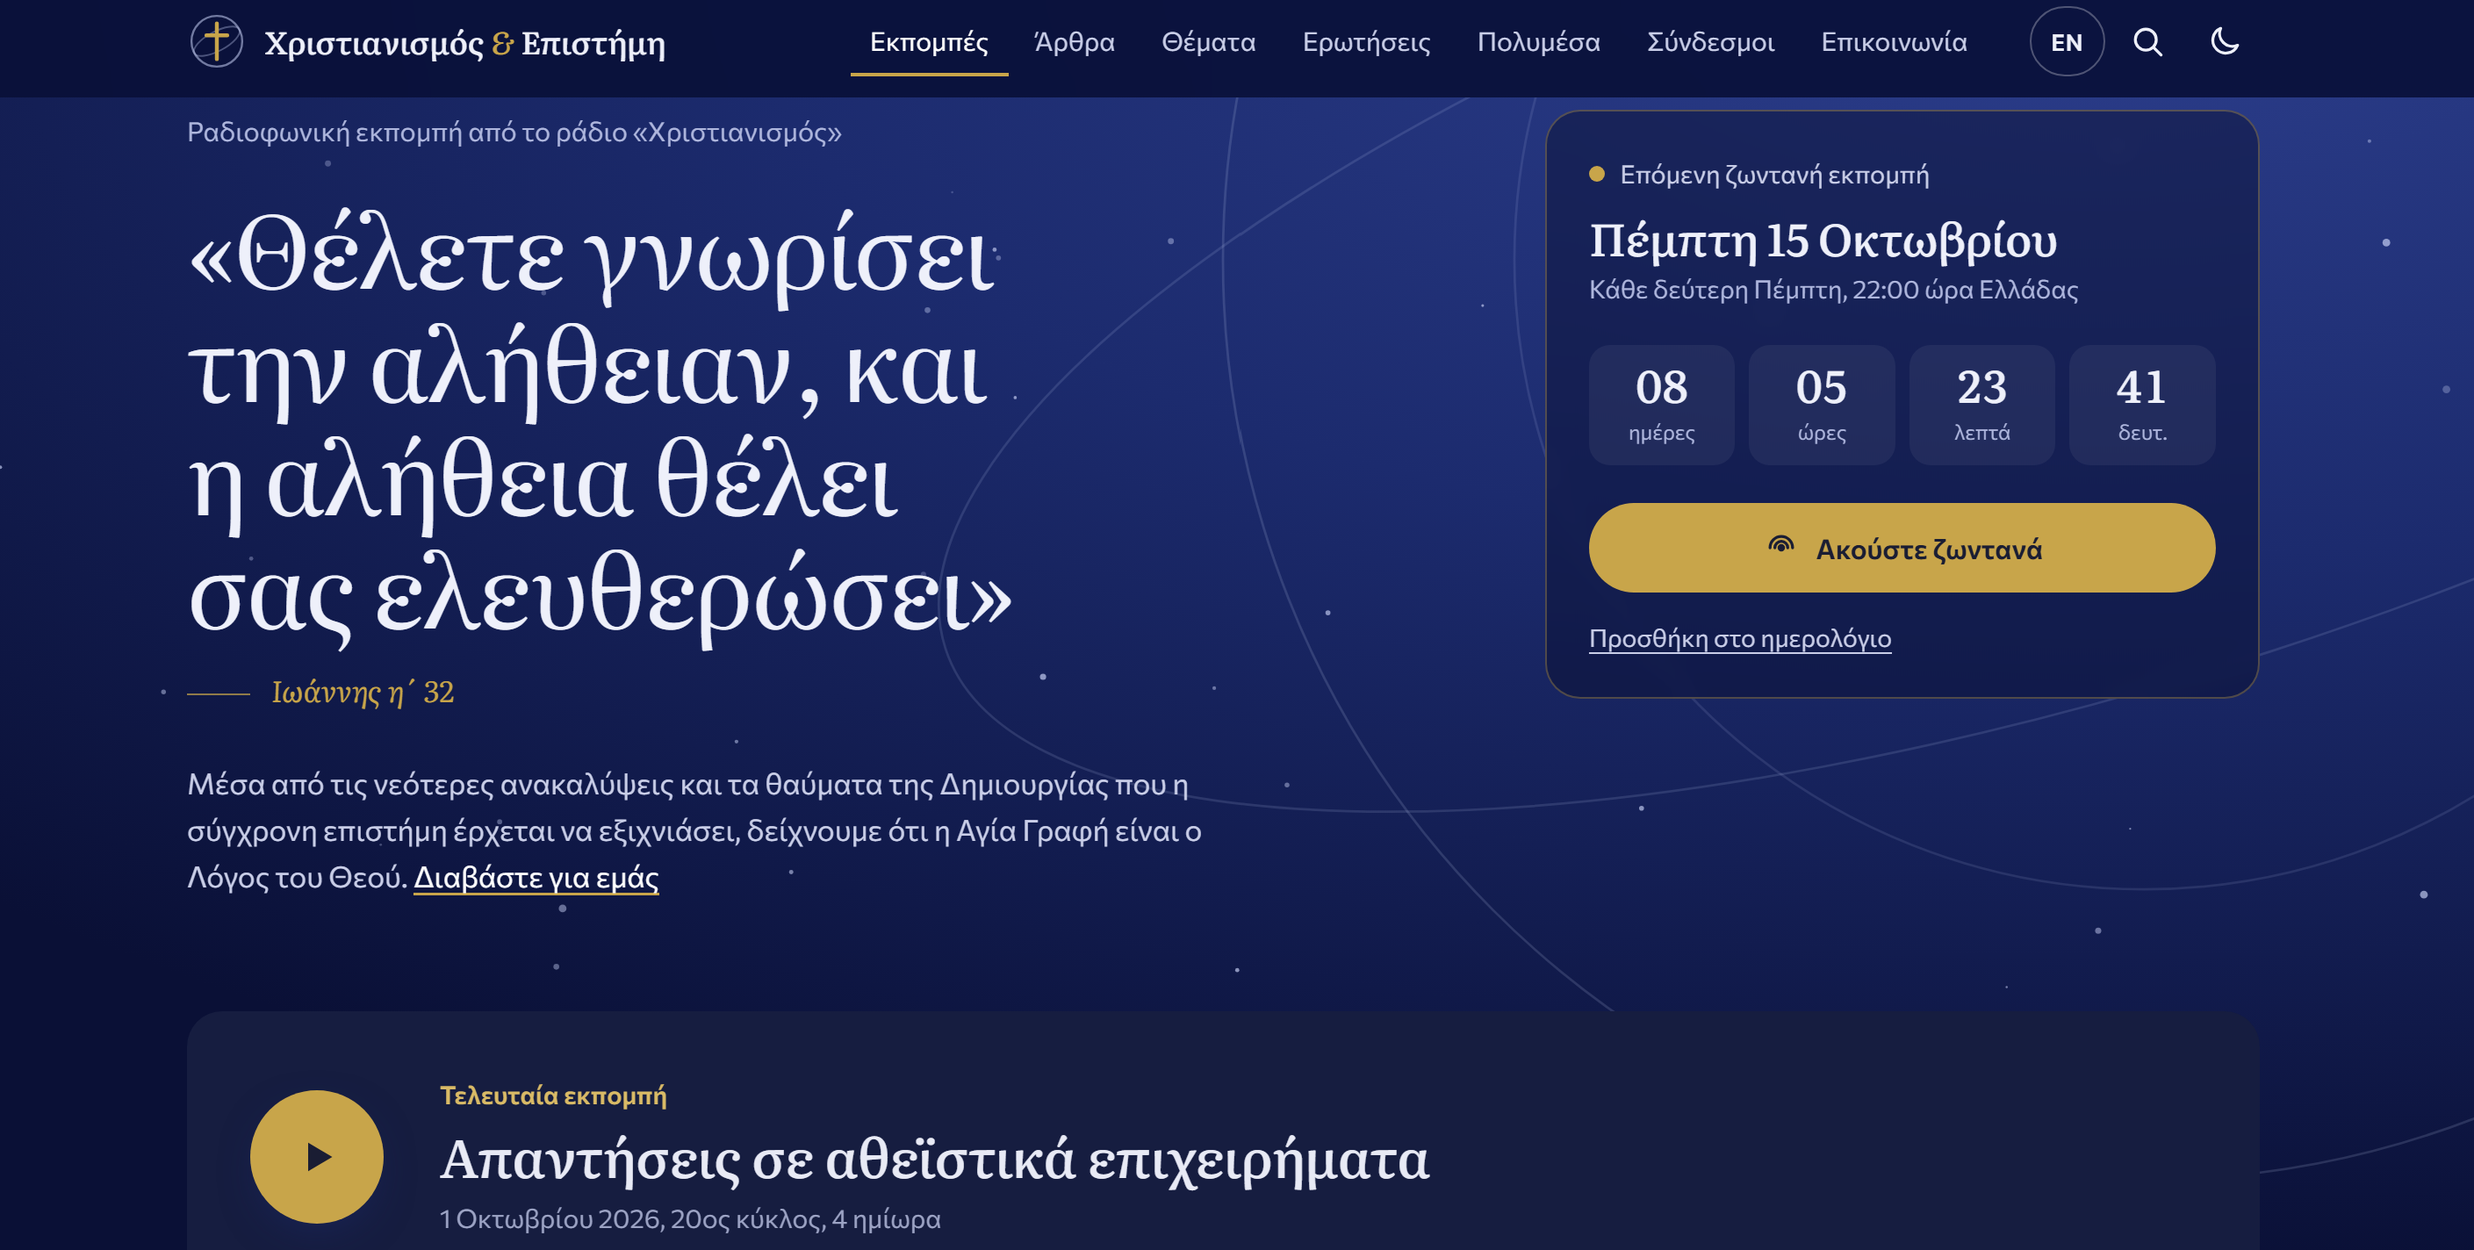
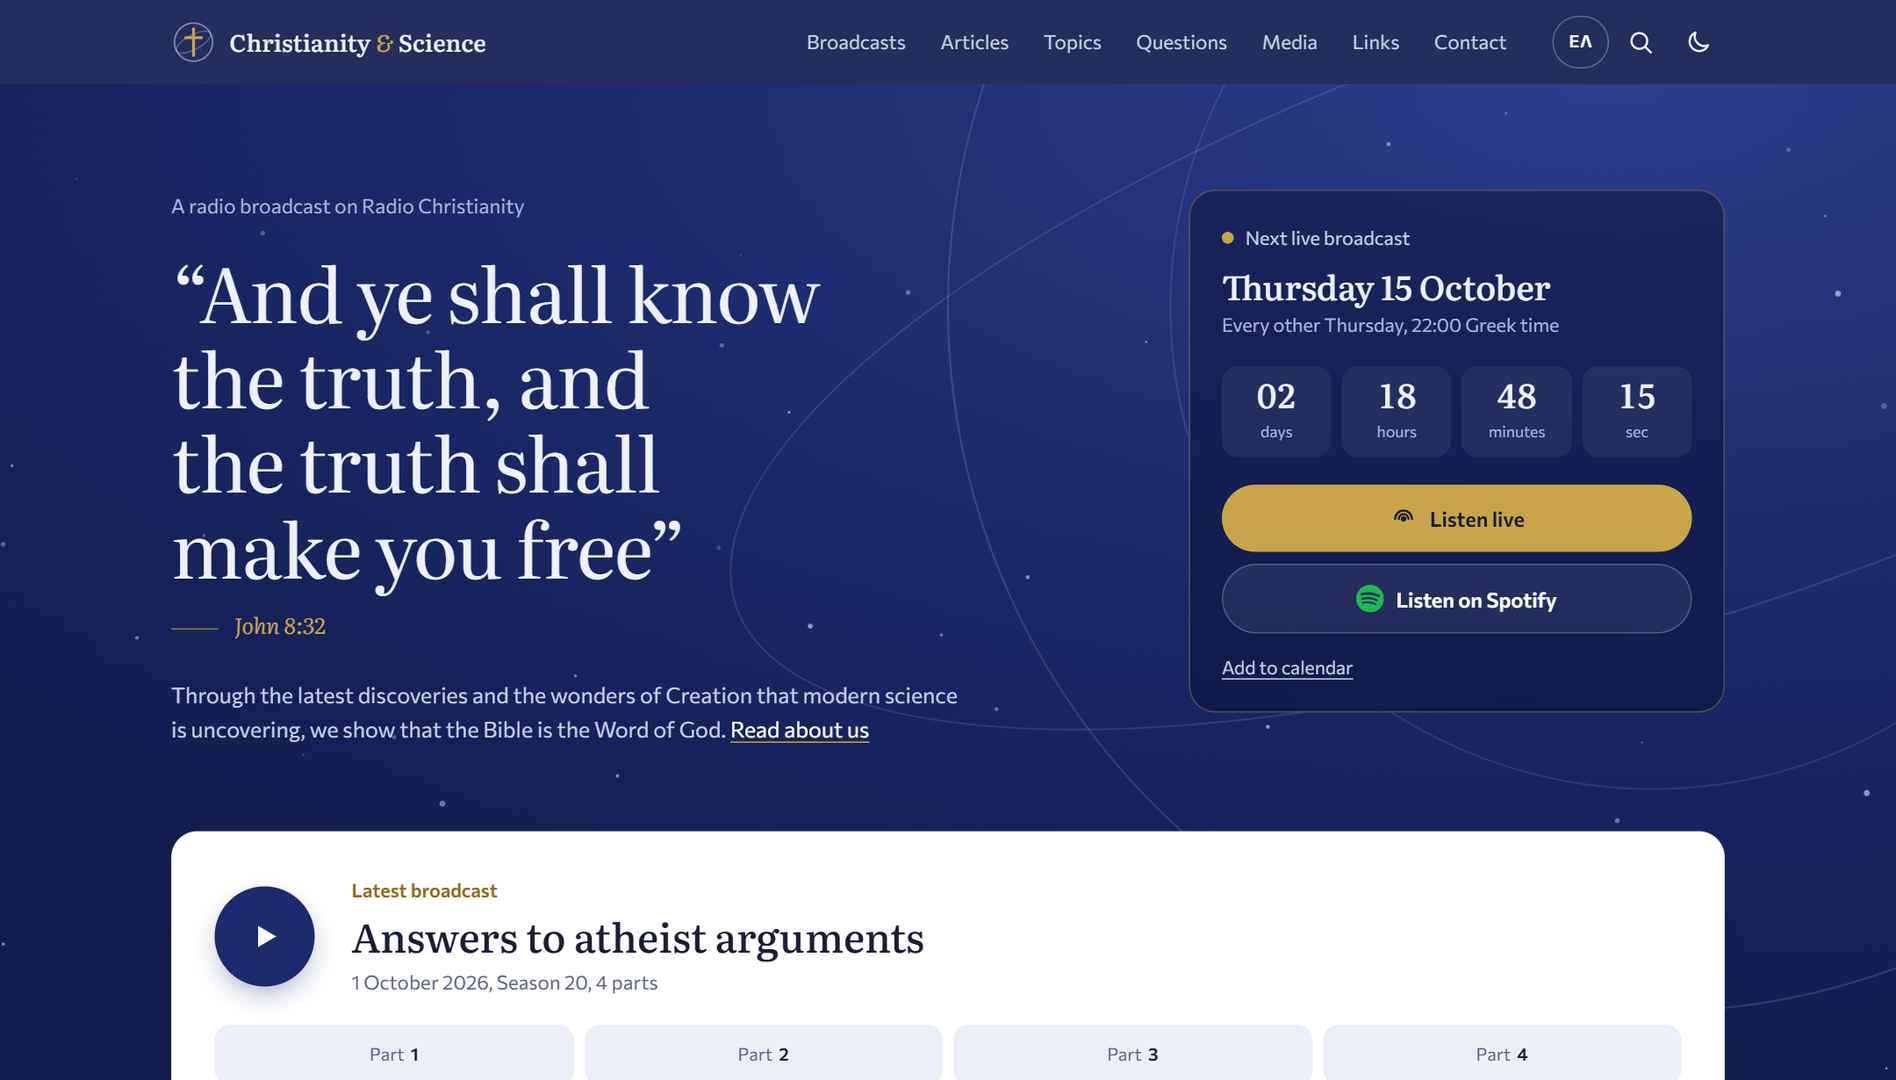
README in English, with new screenshots
The README now describes the whole site: features, folders, adding a
broadcast, the six build steps, how the site goes live (Render, the mp3s on
the old server, the weekly column update, the Spotify feed settings) and the
tests. New screenshots of the home page and of the archive on a phone.
tests/README.md in English with the current test counts.

diff --git a/README.md b/README.md
@@ -1,63 +1,103 @@
-# christianity-science.gr — νέα αρχική σελίδα & αρχείο εκπομπών
+# Christianity & Science — christianity-science.gr
 
-![Η νέα αρχική σελίδα: επόμενη ζωντανή εκπομπή, αντίστροφη μέτρηση και τελευταία εκπομπή](docs/screenshot-home.png)
+The website of **«Χριστιανισμός & Επιστήμη»** (*Christianity & Science*), a Greek radio broadcast on
+Radio Christianity since 2008: every broadcast to listen to (355 so far, about 710 hours), the team's
+newspaper column, topic studies, questions from listeners and more, in Greek and English.
 
-## Δομή
+![The home page: the next live broadcast with a countdown, «Listen live» and «Listen on Spotify», and the latest broadcast](docs/screenshot-home.png)
+
+<img src="docs/screenshot-phone.png" alt="On a phone: the broadcast archive with topics and seasons, a broadcast playing in the player bar" width="300" align="right">
+
+## What the site does
+
+- **Listening.** One player that stays at the bottom while you browse the whole site; it carries on
+  to the next half-hour by itself, remembers where you stopped («Συνέχεια», *Resume*) and plays at 0.75×–2×.
+- **Phone and computer.** Lock-screen and car controls with the show's cover and a progress bar;
+  a share button on phones; a small always-on-top mini player on computers (Chrome and Edge).
+- **Finding broadcasts.** Forgiving search (no accents needed, typos, Greeklish), 21 coloured
+  topics, seasons, and «Σχετικά» (*Related*): related broadcasts, articles, topics and questions.
+- **Site-wide search** from the top bar of every page (`/` or `Ctrl+K`).
+- **Next live broadcast** with a countdown and a calendar file (.ics).
+- **Spotify** and other podcast apps, through the podcast feed `podcast.xml`.
+- **English.** Every page also in English (`en/`), including the newspaper column.
+- **Light and dark** theme; fits any screen; every broadcast has its own link (`index.html#e-2026_09_17`).
+
+<br clear="right">
+
+## Folders
+
 ```
-index.html          Η νέα αρχική (hero, επόμενη εκπομπή, αρχείο, στήλη, βίντεο)
-articles.html       Άρθρα ανά κατηγορία
-material.html       Θέματα (κατηγορίες)
-faq.html            Ερωτήσεις ακροατών
-media.html          Συνεντεύξεις, δημοσκοπήσεις, βίντεο, βιβλία
-links.html          Σύνδεσμοι
-contact.html        Επικοινωνία
-about.html          Ποιοι είμαστε
-material/*.htm      Τα θέματα/μελέτες των εκπομπών, στο νέο σχέδιο (ίδια ονόματα με πριν)
-categories/*.htm    Οι κατηγορίες θεμάτων, στο νέο σχέδιο
-articles/*.htm      Οι κατηγορίες άρθρων, στο νέο σχέδιο
-*.htm (ρίζα)        Παλιές διευθύνσεις (faq.htm κ.λπ.) που ανακατευθύνουν στις νέες σελίδες
-css/site.css        Όλο το στυλ (φωτεινό/σκοτεινό θέμα, responsive, εκτύπωση)
-js/broadcasts.js    ΤΑ ΔΕΔΟΜΕΝΑ: εκπομπές + ρυθμίσεις (το μόνο αρχείο που αλλάζετε συνήθως)
-js/app.js           Λογική αρχικής: αναζήτηση, player, αντίστροφη μέτρηση
-js/page.js          Λογική εσωτερικών σελίδων: θέμα, μενού, φίλτρα
-files/              PDF και έγγραφα
-pictures/           Εικόνες που χρησιμοποιούν τα κείμενα
-mp3/                Όλα τα mp3 (εκπομπές, συνεντεύξεις, δημοσκοπήσεις)
+index.html            Home page: next live broadcast, latest broadcast, column, video, broadcast archive
+about, articles, material, faq, media, links, contact, column .html     The other main pages
+articles/  categories/  material/  column/     Articles, topic categories, topic studies, newspaper column
+en/                   The English site (made by tools/build_en.py, do not edit by hand)
+css/site.css          All the styling
+js/broadcasts.js      THE DATA: every broadcast, its topics, and the site settings (SITE_CONFIG)
+js/broadcasts-en.js   English titles of the broadcasts and topics
+js/app.js             Home page: archive, search, topics, player, countdown, keep-playing-while-browsing
+js/page.js            Other pages: theme, menu, list filters
+js/search.js  js/sitesearch.js  js/search-index.js   The search (shared matching, the top-bar panel, its index)
+js/related.js  data/  The «Σχετικά» (Related) links and other generated data
+podcast.xml           The podcast feed for Spotify (made by tools/podcast.py)
+pictures/             Pictures, the podcast cover and its smaller copies
+files/  mp3/          PDFs and audio: kept on the web host, not in git (about 20 GB)
+translation/          English translations (en.json, the column in translation/column/, STYLE.md)
+tools/                The build tools (below)        tests/   Automatic tests (below)
 ```
 
-## Εγκατάσταση
-Ο φάκελος περιέχει ολόκληρο το site και δεν εξαρτάται από τον παλιό server.
-Ανεβάστε όλο το περιεχόμενο στη ρίζα του site. Οι παλιές σελίδες αντικαθίστανται από τις νέες
-με τα ίδια ονόματα, οπότε παλιοί σύνδεσμοι και αποτελέσματα αναζήτησης συνεχίζουν να δουλεύουν.
+## Adding a new broadcast
 
-Τοπική προεπισκόπηση: `node tests/server.js` μέσα στον φάκελο και άνοιγμα του `http://127.0.0.1:8081/`.
-Οι φάκελοι `tests/` και `tools/` δεν ανεβαίνουν στον server.
+1. In `js/broadcasts.js`, add one line at the top of the current season, with 1–3 topics (most
+   relevant first; the topic names are listed in the same file):
+   ```js
+   ep("2026-10-15", "Title of the broadcast", "Slug_of_the_file", { cs: true, tags: "creation bible" }),
+   ```
+   `cs: true` if the mp3 names start with `CS_`; `parts: 3` if it has 3 half-hours instead of 4.
+2. Add its English title in `js/broadcasts-en.js`, and update `nextBroadcast` in `SITE_CONFIG`.
+3. Put its mp3s in `mp3/broadcasts/Season_NN/YYYY_MM_DD/` and run `python tools/join_broadcasts.py`
+   (makes the whole-broadcast mp3).
+4. Run `python tools/build_all.py`, upload the new mp3s to the web host, push, and deploy.
+   The podcast feed, and so Spotify, picks the broadcast up by itself.
 
-Μετά από οποιαδήποτε αλλαγή σε σελίδες, `css/` ή `js/`: `python tools/build_all.py`. Τρέχει με τη σειρά:
-1. `tools/build_en.py`: οι αγγλικές σελίδες (`en/`) από τις ελληνικές και το `translation/en.json`
-2. `tools/seo.py`: πλήρεις διευθύνσεις για Google (canonical, ελληνικά/αγγλικά), κάρτα κοινοποίησης, `sitemap.xml`, `robots.txt`
-3. `tools/stamp.py`: ανανεώνει το `?v=` ώστε οι browsers να πάρουν τη νέα έκδοση
+## Building
 
-Η επίσημη διεύθυνση του site ορίζεται σε ένα σημείο: `SITE_URL` στο `tools/seo.py` (σήμερα `https://www.christianity-science.gr/`).
+After any change to pages, `css/` or `js/`, run `python tools/build_all.py`. In order, it runs:
 
-Σελίδα «δεν βρέθηκε»: `404.html` (ο server πρέπει να ρυθμιστεί να τη χρησιμοποιεί).
+| Tool | What it does |
+|---|---|
+| `related.py` | «Σχετικά» (*Related*) links between broadcasts, column articles, topics and questions |
+| `site_search.py` | The site-wide search index and the search button on every page |
+| `build_en.py` | The English pages from the Greek ones and `translation/` |
+| `seo.py` | Addresses for search engines and sharing cards, `sitemap.xml`, `robots.txt` |
+| `podcast.py` | `podcast.xml`, the podcast feed (measures new mp3s with ffprobe) |
+| `stamp.py` | Version stamps (`?v=…`) so browsers load the new CSS and JS |
 
-Έλεγχος μετά το ανέβασμα: `node tests/live-check.js`. Ελέγχει ότι όλες οι σελίδες στο ζωντανό site είναι η νέα έκδοση και ότι όλα τα αρχεία και τα mp3 φορτώνουν.
-Έλεγχοι: δείτε το [tests/README.md](tests/README.md).
+Other tools: `update_column.py` (fetches new newspaper column articles), `join_broadcasts.py`
+(whole-broadcast mp3s, needs ffmpeg), `podcast_cover.js` (the podcast cover from
+`tools/podcast-cover.html`). Needs Python 3 and Node.js.
 
-## Νέα εκπομπή
-Στο `js/broadcasts.js`, στην κορυφή του τρέχοντος κύκλου:
-```js
-ep("2026-10-01", "Τίτλος εκπομπής", "Slug_arxeiou"),
+## How the site goes live
+
+- **Pages:** hosted on [Render](https://render.com) as a static site, from this repository's `main`
+  branch: https://christianity-science.onrender.com/. After a push, Render deploys it (or use
+  *Manual Deploy → Deploy latest commit*).
+- **Audio:** the mp3s are on the old server at www.christianity-science.gr; Render forwards `/mp3/…` there.
+- **Newspaper column:** every Monday a GitHub Action (`.github/workflows/update-column.yml`) adds new
+  articles, rebuilds and commits.
+- **Spotify:** the show reads `podcast.xml`
+  (https://open.spotify.com/show/6eyFkp4HBWCa4byp7F0CI1). The feed is set in `SITE_CONFIG`:
+  `podcastSite` (where the site is), `podcastAudio` (where the mp3s are), `podcastParts` (for now each
+  half-hour is an episode; `false` = one episode per whole broadcast, once those mp3s are online),
+  `podcastEmail` (the owner address Spotify checks).
+- **The domain:** when christianity-science.gr points to the new site, change `SITE_URL` in
+  `tools/seo.py` and `podcastSite` in `js/broadcasts.js`, then rebuild.
+
+## Tests
+
 ```
-Αν το αρχείο ξεκινά με `CS_` προσθέστε `{ cs: true }`. Αν έχει 3 ημίωρα, `{ parts: 3 }`.
-Ενημερώστε επίσης `nextBroadcast` και `latestColumn` στο `SITE_CONFIG`.
-
-## Δυνατότητες
-- Ενιαίος player που μένει κάτω ενώ περιηγείστε, με αυτόματη συνέχεια στο επόμενο ημίωρο
-- Θυμάται πού σταματήσατε σε κάθε ημίωρο ("Συνέχεια ακρόασης")
-- Αναζήτηση χωρίς τόνους (γενεση = Γένεση), φίλτρο ανά κύκλο
-- Ταχύτητα 0,75×–2×, ±15 δευτ., έλεγχος από οθόνη κλειδώματος κινητού
-- Σύνδεσμος ανά εκπομπή (π.χ. `index.html#e-2026_09_17`)
-- Αντίστροφη μέτρηση για τη ζωντανή εκπομπή + αρχείο ημερολογίου (.ics)
-- Συντομεύσεις: `/` αναζήτηση, `Space` αναπαραγωγή/παύση, `←` `→` ±15 δευτ.
+node --test tests/static.test.js          # data, pages, links, feed, translations (no browser)
+node tests/server.js                       # serves the site at http://127.0.0.1:8081/ (also for previewing)
+node --test tests/browser.test.js          # in Chrome or Edge: player, search, topics, phone layout…
+node tests/live-check.js                   # after going live: every page and file loads on the real site
+```
+The browser tests need `npm install --prefix tests puppeteer-core` once. Details: [tests/README.md](tests/README.md).

diff --git a/tests/README.md b/tests/README.md
@@ -1,26 +1,34 @@
-# Έλεγχοι (tests)
+# Tests
 
-Δύο σειρές αυτόματων ελέγχων. Χρειάζεται [Node.js](https://nodejs.org) 18+ και Python (για το `tools/stamp.py`).
+Two sets of automatic tests. They need [Node.js](https://nodejs.org) 18+ and Python (for `tools/stamp.py`).
 
-## 1. Στατικοί έλεγχοι (χωρίς browser), 31 έλεγχοι
-Δεδομένα εκπομπών, συναρτήσεις του `js/app.js`, HTML όλων των σελίδων, σύνδεσμοι, CSS, `tools/stamp.py`.
+## 1. Static tests (no browser), 53 tests
+Broadcast data and topics, functions of `js/app.js`, the HTML of every page, every internal link, CSS,
+the English pages and translations, «Σχετικά» (Related), the site search index, the podcast feed, `tools/stamp.py`.
 ```
 node --test tests/static.test.js
 ```
 
-## 2. Έλεγχοι στον browser, 26 έλεγχοι
-Ανοίγουν κάθε σελίδα σε headless Chrome/Edge: αναζήτηση, player, αντίστροφη μέτρηση, θέμα, μενού, φίλτρα, κινητό.
+## 2. Browser tests, 58 tests
+They open the pages in headless Chrome or Edge: search, player, keep-playing-while-browsing, topics,
+countdown, theme, menu, filters, share and lock-screen controls, phone layout.
 ```
-npm install --prefix tests puppeteer-core     # μία φορά
-node tests/server.js                           # σε ξεχωριστό παράθυρο (σερβίρει τον φάκελο στο :8081)
+npm install --prefix tests puppeteer-core     # once
+node tests/server.js                           # in a separate window (serves the folder at :8081)
 node --test tests/browser.test.js
 ```
-Το `tests/server.js` υποστηρίζει HTTP Range, απαραίτητο για μεταπήδηση μέσα στα mp3
-(ο `python -m http.server` δεν το υποστηρίζει, οπότε το «Συνέχεια ακρόασης» δεν δουλεύει με αυτόν).
+`tests/server.js` supports HTTP Range requests, which jumping within an mp3 needs
+(`python -m http.server` does not, so «Συνέχεια» (resume) does not work with it).
 
-## Γνωστό κενό
-Η εκπομπή της 7/3/2013 («Νηστεία») δεν έχει mp3: λείπουν και από τον παλιό server.
-Ο έλεγχος τα καταγράφει στο `KNOWN_MISSING_MP3`. Αν βρεθούν τα αρχεία, προσθέστε τα στο
-`mp3/broadcasts/Season_06/2013_03_07/` και αφαιρέστε τα από τη λίστα.
+## After going live
+```
+node tests/live-check.js
+```
+Checks that every page on the live site is the new version and that all files and mp3s load.
 
-Οι φάκελοι `tests/` και `tools/` δεν χρειάζεται να ανέβουν στον server.
+## Known gap
+The broadcast of 7 March 2013 («Νηστεία», *Fasting*) has no mp3s: they are missing on the old server too.
+The tests list them in `KNOWN_MISSING_MP3`. If the files turn up, add them to
+`mp3/broadcasts/Season_06/2013_03_07/` and remove them from that list.
+
+The `tests/` and `tools/` folders do not need to be uploaded to the web host.
